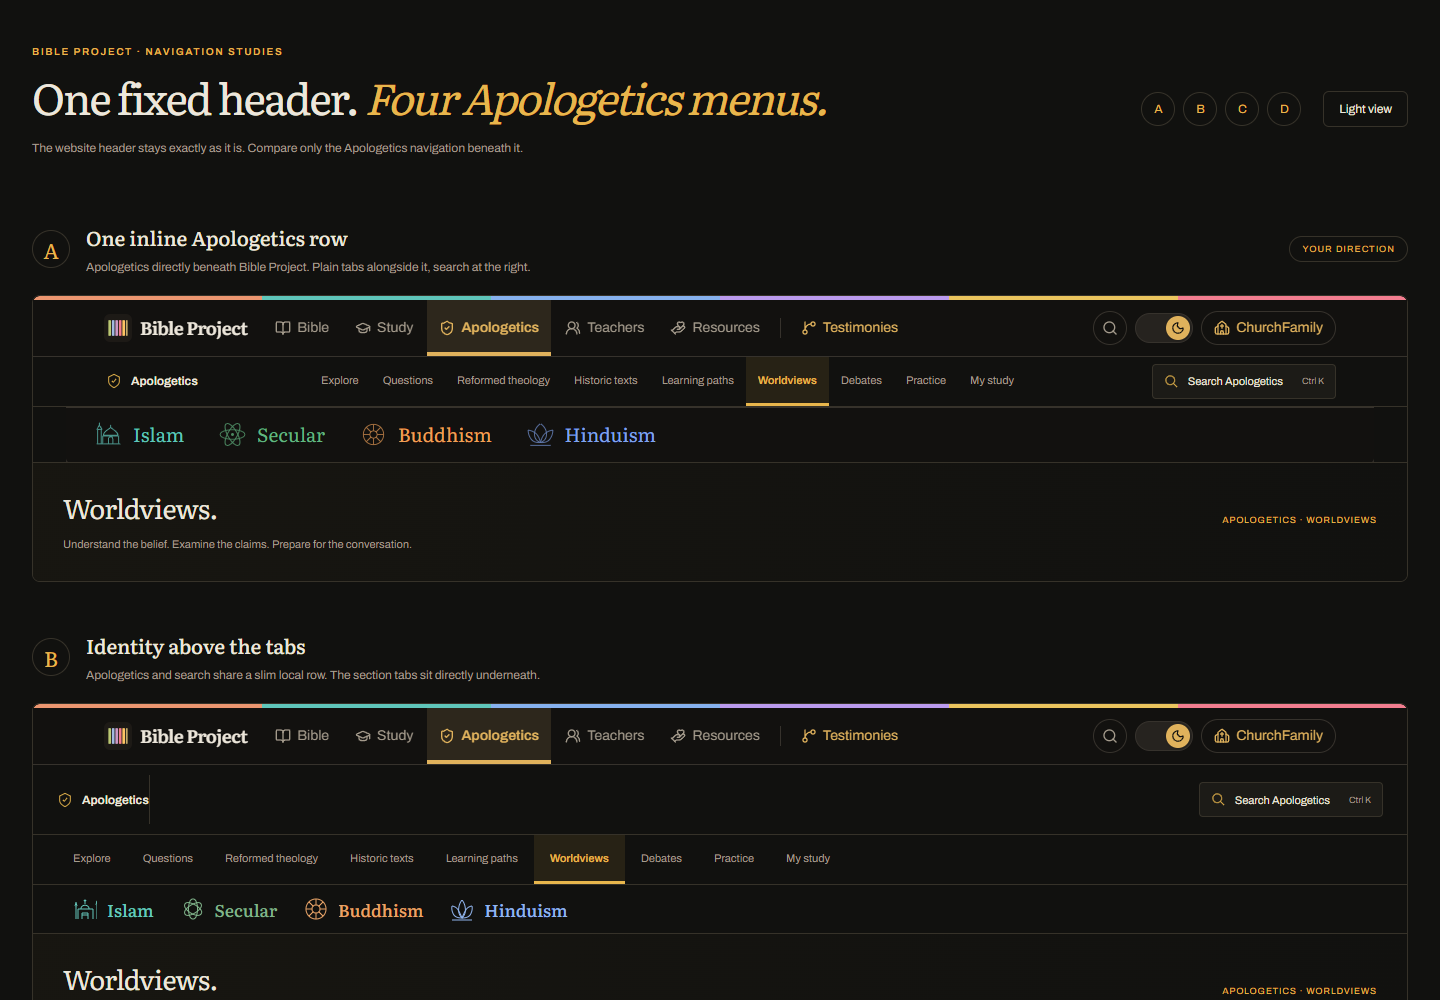
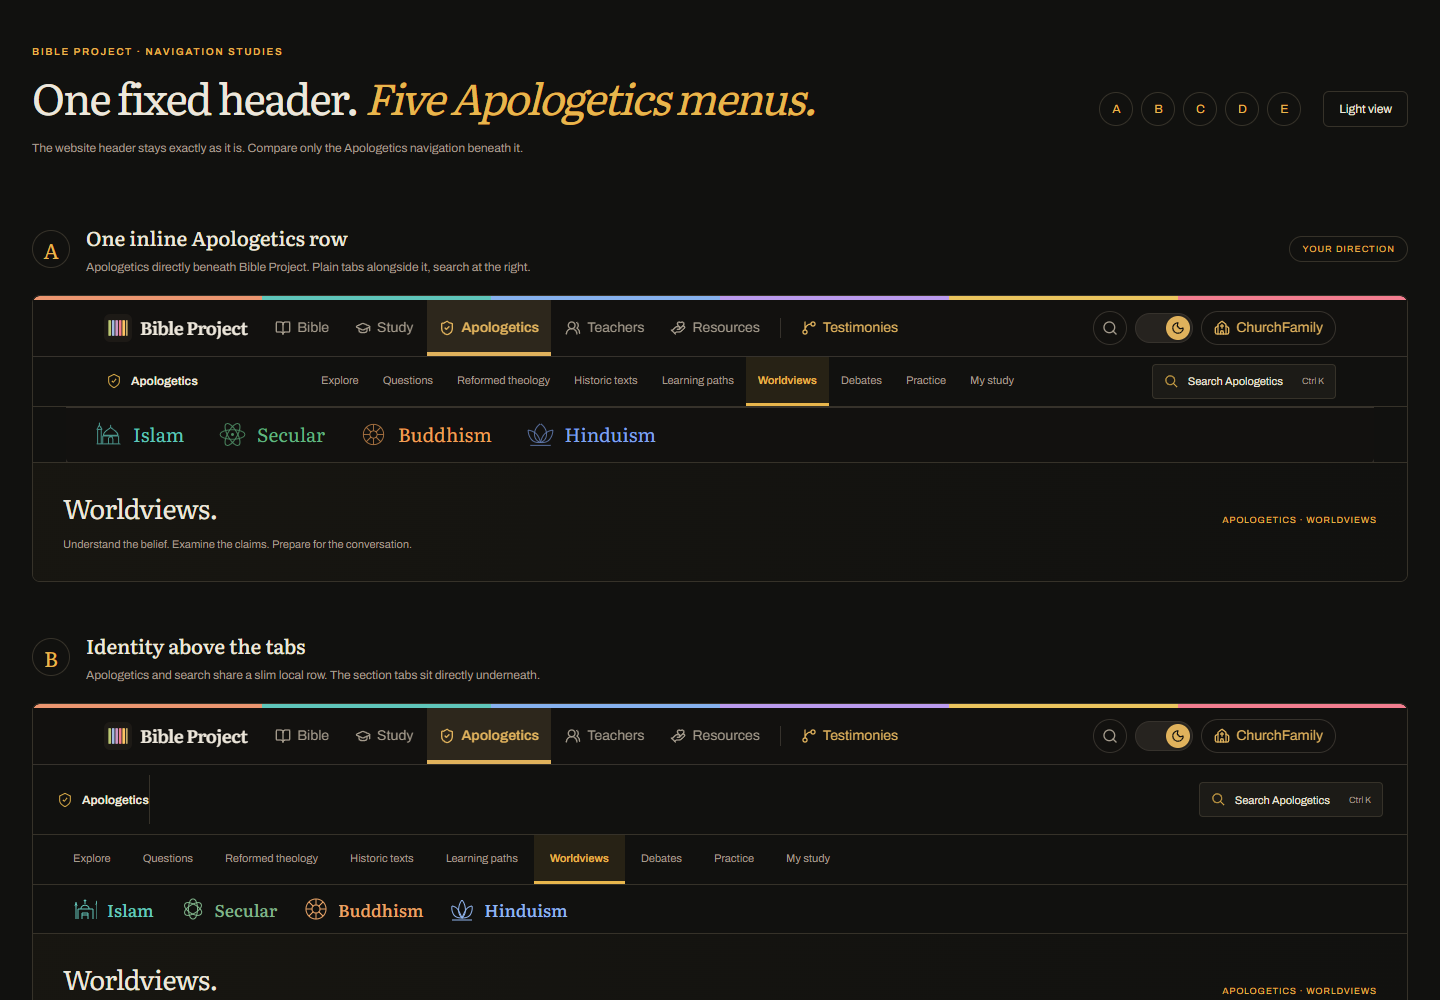
Add original-layout Apologetics mockup E

Changed region(s): [[0.25, 0.062, 0.5938, 0.124]]

diff --git a/design/header-merger/app.js b/design/header-merger/app.js
@@ -13,8 +13,28 @@ const options=[
  {id:'d',title:'A local identity rail',text:'Apologetics anchors the left of its own menu. Tabs and worldview choices line up beside it.',header:()=>`<div class="local-identity-rail">${section}</div><div class="section-row">${tabNav()}${searchButton()}</div>`}
 ];
 document.getElementById('options').innerHTML=options.map(o=>`<section class="option" id="option-${o.id}"><header class="option-description"><span class="option-letter">${o.id.toUpperCase()}</span><div><h2>${o.title}</h2><p>${o.text}</p></div>${o.tag?`<span class="option-tag">${o.tag}</span>`:''}</header><div class="site-preview variant-${o.id}"><iframe class="original-site-header" src="/apologetics" title="Existing website header, unchanged" scrolling="no"></iframe><div class="local-navigation">${o.header()}${o.id==='a'?'<div class="original-worldviews-viewport"><iframe class="original-worldviews-frame" src="/apologetics/worldviews" title="Existing Worldviews navigation" scrolling="no"></iframe></div>':''}<nav class="world-row" ${o.id==='a'?'hidden':''} aria-label="Current section choices"><div class="context-options">${worldviewRow()}</div>${o.id==='c'?searchButton():''}</nav></div><div class="example-content"><div><h3>Worldviews.</h3><p>Understand the belief. Examine the claims. Prepare for the conversation.</p></div><span class="example-note">Apologetics &middot; Worldviews</span></div></div></section>`).join('');
+// E preserves the actual page, with changes scoped to its local Apologetics masthead and artwork labels.
+document.getElementById('options').insertAdjacentHTML('beforeend',`<section class="option" id="option-e"><header class="option-description"><span class="option-letter">E</span><div><h2>The original, with a simpler top bar</h2><p>Apologetics on the left. Search on the right. The original navigation and line art below.</p></div></header><div class="site-preview variant-e"><iframe class="original-e-page" src="/apologetics" title="Option E: original Apologetics page with simplified local masthead" scrolling="no"></iframe></div></section>`);
+const eFrame=document.querySelector('.original-e-page');
+eFrame.addEventListener('load',()=>{
+ const doc=eFrame.contentDocument;
+ const style=doc.createElement('style');
+ style.textContent='.am-masthead .am-brand>span,.am-masthead .am-source{display:none!important}.am-masthead{display:flex;align-items:center;justify-content:space-between}.am-masthead>.am-brand{flex:none}.am-masthead>div{margin-left:auto}';
+ doc.head.append(style);
+ let pending=false;
+ const update=()=>{
+  pending=false;
+  doc.querySelectorAll('.ap-orbit-node>span').forEach(label=>{if(label.textContent.trim()==='Doubt')label.textContent='Reason';if(label.textContent.trim()==='Reformed')label.textContent='Faith'});
+  const end=doc.querySelector('.ap-universe-hero')||doc.querySelector('.wv-index-head')||doc.querySelector('.sm-container');
+  if(end){const height=Math.ceil(end.getBoundingClientRect().bottom+eFrame.contentWindow.scrollY);if(eFrame.style.height!==height+'px')eFrame.style.height=height+'px';eFrame.dataset.ready='true'}
+ };
+ const schedule=()=>{if(!pending){pending=true;requestAnimationFrame(update)}};
+ new MutationObserver(schedule).observe(doc.body,{subtree:true,childList:true,characterData:true});
+ new ResizeObserver(schedule).observe(doc.documentElement);
+ doc.fonts.ready.then(schedule);schedule();
+});
 const root=document.documentElement;
-function theme(value){root.dataset.theme=value;document.getElementById('theme').textContent=value==='dark'?'Light view':'Dark view';try{localStorage.setItem('bp-theme',value)}catch{};document.querySelectorAll('.original-site-header').forEach(frame=>{frame.src='/apologetics?mockupTheme='+value});document.querySelectorAll('.original-worldviews-frame').forEach(frame=>{frame.src='/apologetics/worldviews?mockupTheme='+value})}
+function theme(value){eFrame.src='/apologetics?mockupTheme='+value;root.dataset.theme=value;document.getElementById('theme').textContent=value==='dark'?'Light view':'Dark view';try{localStorage.setItem('bp-theme',value)}catch{};document.querySelectorAll('.original-site-header').forEach(frame=>{frame.src='/apologetics?mockupTheme='+value});document.querySelectorAll('.original-worldviews-frame').forEach(frame=>{frame.src='/apologetics/worldviews?mockupTheme='+value})}
 try{theme(localStorage.getItem('bp-theme')||'dark')}catch{theme('dark')}
 document.querySelectorAll('#theme,.toggle-theme').forEach(button=>button.onclick=()=>theme(root.dataset.theme==='dark'?'light':'dark'));
 const secondary={Explore:['Start here','Explore the questions','Across beliefs'],Questions:['God & belief','Scripture','Jesus Christ','Suffering & evil'], 'Reformed theology':['Reformed questions','Confessions & historic texts'],'Historic texts':['Confessions','Manuscripts','Early Christian writings'],'Learning paths':['Begin here','Reading Scripture','Answering questions'],Debates:['All exchanges','Study the reasoning','Conversation practice'],Practice:['Choose a conversation','Listen & respond','Review your approach'],'My study':['Saved studies','Reading history','Your notes']};

diff --git a/design/header-merger/index.html b/design/header-merger/index.html
@@ -1,4 +1,4 @@
 <!doctype html>
-<html lang="en"><head><meta charset="utf-8"><meta name="viewport" content="width=device-width,initial-scale=1"><title>Header merger &middot; Four Apologetics options</title><link rel="icon" href="/favicon.svg"><link rel="stylesheet" href="./styles.css"></head>
-<body><main><header class="design-intro"><div><p class="eyebrow">Bible Project &middot; Navigation studies</p><h1>One fixed header.<em> Four Apologetics menus.</em></h1><p>The website header stays exactly as it is. Compare only the Apologetics navigation beneath it.</p></div><div class="design-controls"><nav aria-label="Jump to an option"><a href="#option-a">A</a><a href="#option-b">B</a><a href="#option-c">C</a><a href="#option-d">D</a></nav><button id="theme" type="button">Light view</button></div></header><div id="options"></div><footer class="design-footer">Header merger &middot; Four working navigation prototypes <a href="/mockups/">All mockups</a></footer></main>
+<html lang="en"><head><meta charset="utf-8"><meta name="viewport" content="width=device-width,initial-scale=1"><title>Header merger &middot; Five Apologetics options</title><link rel="icon" href="/favicon.svg"><link rel="stylesheet" href="./styles.css"></head>
+<body><main><header class="design-intro"><div><p class="eyebrow">Bible Project &middot; Navigation studies</p><h1>One fixed header.<em> Five Apologetics menus.</em></h1><p>The website header stays exactly as it is. Compare only the Apologetics navigation beneath it.</p></div><div class="design-controls"><nav aria-label="Jump to an option"><a href="#option-a">A</a><a href="#option-b">B</a><a href="#option-c">C</a><a href="#option-d">D</a><a href="#option-e">E</a></nav><button id="theme" type="button">Light view</button></div></header><div id="options"></div><footer class="design-footer">Header merger &middot; Five working navigation prototypes <a href="/mockups/">All mockups</a></footer></main>
 <dialog id="search-dialog"><div class="dialog-title"><div><p class="eyebrow">Apologetics</p><h2>Find your way in.</h2></div><button id="close-search" aria-label="Close search">?</button></div><label for="search-input">Search Apologetics</label><input id="search-input" type="search" placeholder="Questions, worldviews, paths?"><div id="search-results"></div></dialog><script src="./app.js"></script></body></html>

diff --git a/design/header-merger/styles.css b/design/header-merger/styles.css
@@ -36,3 +36,7 @@
 .original-worldviews-viewport{position:relative;overflow:hidden;height:56px;border-top:1px solid var(--line);background:var(--page)}
 .original-worldviews-frame{position:absolute;left:0;top:-190px;width:100%;height:1600px;border:0;background:var(--page)}
 .site-preview [hidden]{display:none!important}
+
+/* E shows the original page; its website header is untouched. */
+.original-e-page{display:block;width:100%;height:860px;border:0;background:var(--page)}
+@media(max-width:800px){.design-controls{flex-wrap:wrap}.design-controls nav{flex-wrap:wrap}}

diff --git a/design/header-merger/README.md b/design/header-merger/README.md
@@ -9,3 +9,5 @@ A: Apologetics identity under Bible Project, plain tabs and right-aligned local 
 Run `node design/header-merger/verify.mjs` for responsive/theme and interaction checks.
 
 Owner correction: A must preserve the existing third-row Worldviews layout and behavior. It now displays the actual live Worldviews row in a cropped frame, with its original icons, spacing, left alignment, selections and subpage links. The full-width navigation wrapper owns divider lines, so they meet the outer frame instead of ending at the inner content measure.
+
+Option E (2026-10-11): embeds the original Apologetics landing page and navigation. Its local masthead keeps the shield/name at left and search at right, in the existing tagline row. Hide the tagline and source-room link in that masthead. In the original constellation only, change Doubt to Reason and Reformed to Faith. All E changes are scoped to the embedded mockup document; the website header and production source are untouched.
